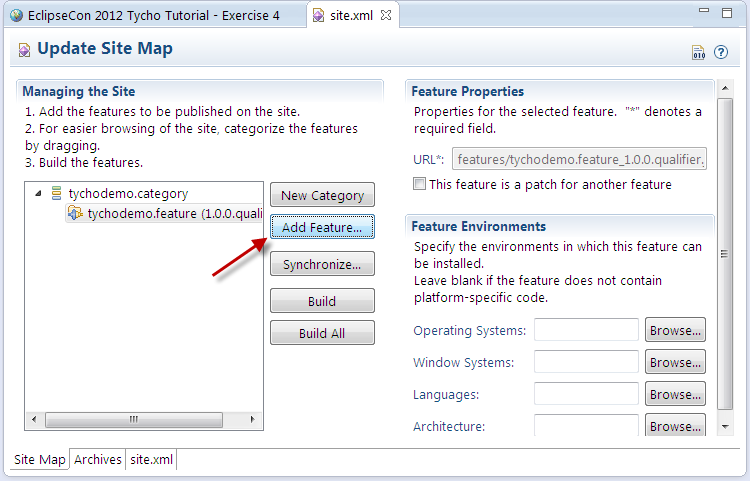
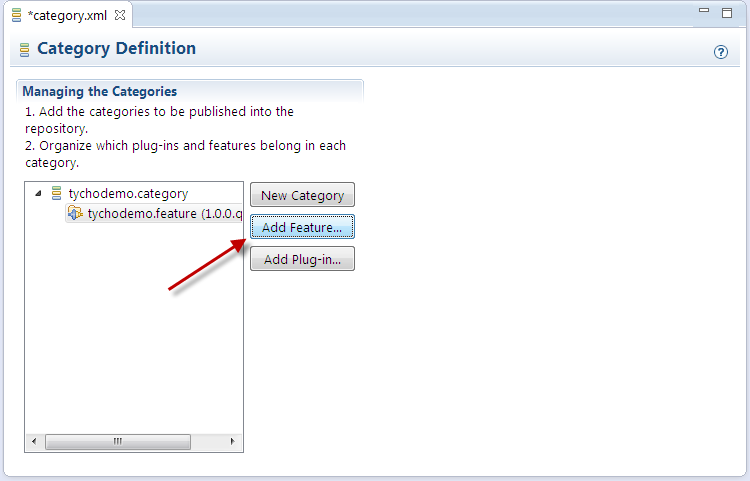
Edit renamed category.xml; updated screen shots in ex 4
- First rename the site.xml to category.xml, then edit it (shows new
  add category button).
- Also: removed dead link from ex 5 pointing to ex 6.

diff --git a/exercises/Exercise_04_Add_P2_Repository/tychodemo.parent/README.html b/exercises/Exercise_04_Add_P2_Repository/tychodemo.parent/README.html
@@ -17,7 +17,7 @@
 
 	<h3>Recovery option</h3>
 
-	This section is optional and only needed if you want to catch up from exercise 3 or reset your workspace.
+	This section is optional and only needed if you want to recover from a problem in exercise 3.
 	<ul>
 		<li>Select <tt>File > Switch Workspace > Other...</tt> and choose the folder <a href="../">Exercise_04_Add_P2_Repository</a></li>
 		<li>Import all four projects from this folder into the workspace using <tt>File > Import > Existing Maven Projects</tt></li>
@@ -42,14 +42,16 @@
 			<br /><img src="../resources/new_updatesite.png" />
 			<br /><img src="../resources/new_updatesite_2.png" />
 		</li>
-		<li>In <tt>site.xml</tt>, create a new category <tt>tychodemo.category</tt> and add the feature <tt>tychodemo.feature</tt> to it:<br /> <img src="../resources/new_category.png" /><br /> <img
+		<li>Rename the <tt>site.xml</tt> to <tt>category.xml</tt> using right-click <tt>Refactor > Rename...</tt>
+			<br /><img src="../resources/category_xml_rename.png" />
+		</li>
+		<li>Open the <tt>category.xml</tt>. If the editor shows the error "Unable to open editor..." (<a href="https://bugs.eclipse.org/bugs/show_bug.cgi?id=404118">bug 404118</a>), explicitly select the right editor: Right-click on the <tt>category.xml > Open With > Category Manifest Editor</tt>
+			<br /><img src="../resources/category_xml_open.png" />
+		</li>
+		<li>In the <tt>category.xml</tt> editor, create a new category <tt>tychodemo.category</tt> and add the feature <tt>tychodemo.feature</tt> to it:<br /> <img src="../resources/new_category.png" /><br /> <img
 			src="../resources/add_feature.png" /><br />
-
 		</li>
-		<li>Rename <tt>site.xml</tt> to <tt>category.xml</tt> using Right-click <tt>Refactor > Rename...</tt><br /> <img src="../resources/rename.png" />
-
-		</li>
-		<li>Add the the new project to the build (with packaging type <tt>eclipse-repository</tt>): <ul>
+		<li>Add the the new project to the build with <tt>eclipse-repository</tt> packaging type: <ul>
 			<li>Right-click on <tt>tychodemo.repository > Configure > Convert to Maven Project</tt></li>
 			<li>Enter the group ID <tt>tychodemo</tt>, version <tt>1.0.0-SNAPSHOT</tt> and packaging <tt>eclipse-repository</tt>. Background info: the packaging type <tt>eclipse-repository</tt> tells Tycho to build a p2 repository.
 				<br /><img src="../resources/add_pom.png" />
@@ -59,6 +61,9 @@
 			</li>
 			<li>Select the <tt>tychodemo.repository</tt> module, select <tt>Update POM parent section in selected projects</tt>, and hit <tt>OK</tt>
 				<br /><img src="../resources/add_to_parent_2.png" />
+			</li>
+			<li>
+				If the problems view shows an error "Project configuration is not up-to-date with pom.xml", simply apply the quick fix for it.
 			</li>
 		</ul></li>
 		<li>Run the build of <tt>tychodemo.parent</tt>, e.g. by selecting <tt>tychodemo.parent</tt> from the run history

diff --git a/exercises/Exercise_05_Add_Product/tychodemo.parent/README.html b/exercises/Exercise_05_Add_Product/tychodemo.parent/README.html
@@ -7,7 +7,7 @@
 	<p align="center">
 		<a href="../../Exercise_04_Add_P2_Repository/tychodemo.parent/README.html">&lt;Previous Exercise</a>
 		| <a href="../../../README.html">TOC</a>
-		| <a href="../../Exercise_06_Use_Target_File/tychodemo.parent/README.html">Next Exercise&gt;</a>
+		<!-- | <a href="../../Exercise_06_Use_Target_File/tychodemo.parent/README.html">Next Exercise&gt;</a> -->
 	</p>
 
 	<h2>Exercise 5: Build a product distribution</h2>
@@ -137,7 +137,7 @@
 	<p align="center">
 		<a href="../../Exercise_04_Add_P2_Repository/tychodemo.parent/README.html">&lt;Previous Exercise</a>
 		| <a href="../../../README.html">TOC</a>
-		| <a href="../../Exercise_06_Use_Target_File/tychodemo.parent/README.html">Next Exercise&gt;</a>
+		<!-- | <a href="../../Exercise_06_Use_Target_File/tychodemo.parent/README.html">Next Exercise&gt;</a> -->
 	</p>
 
 </body>
